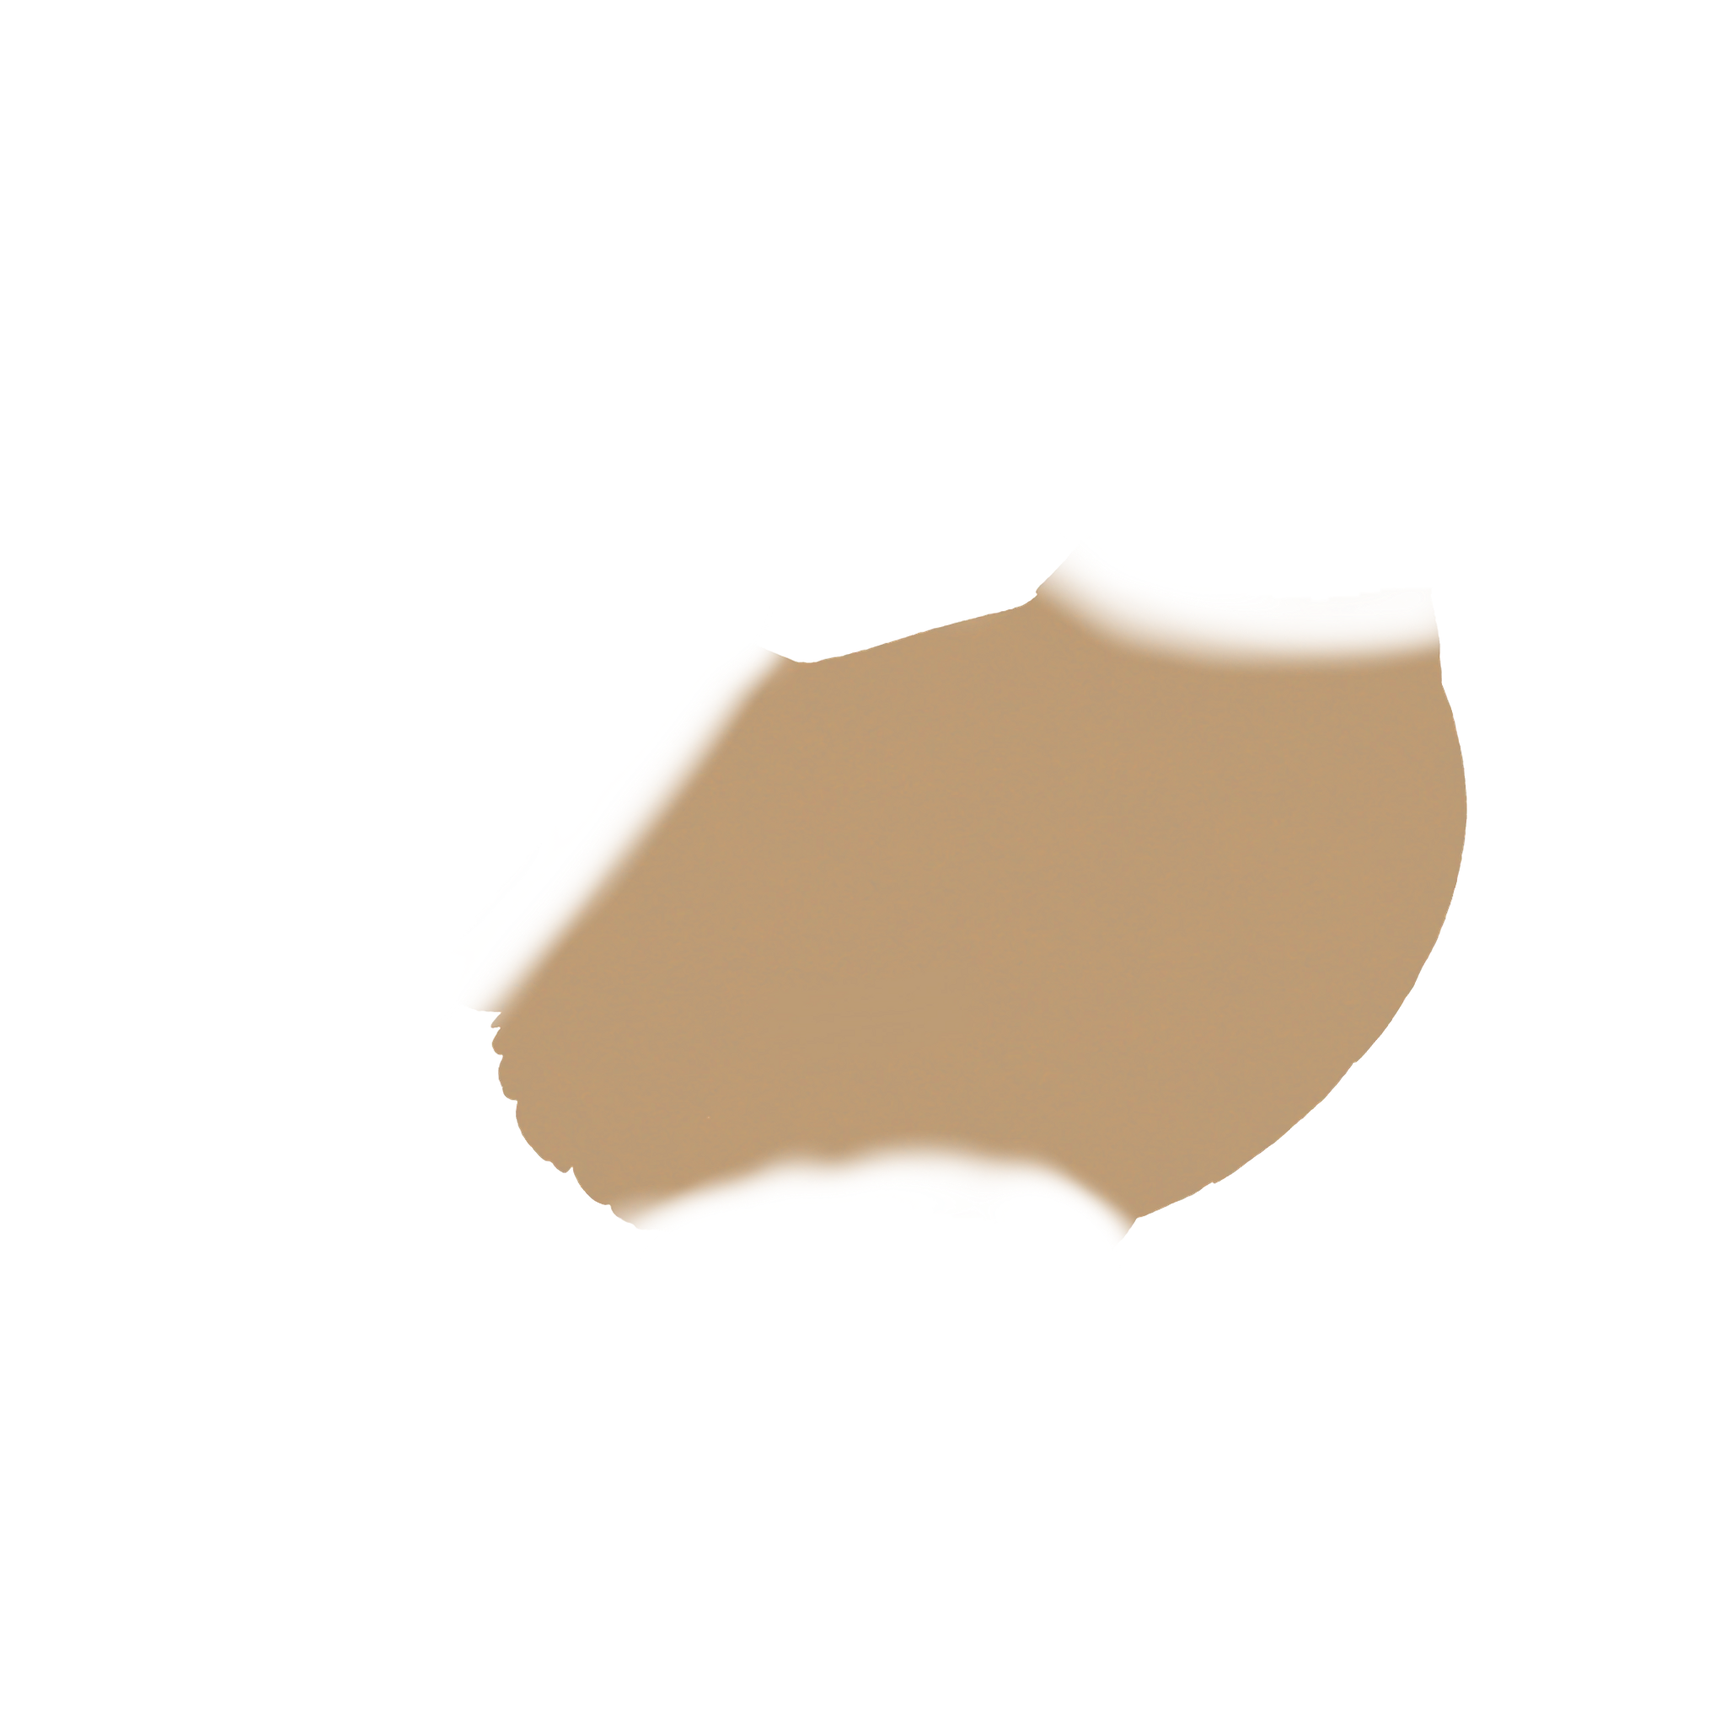
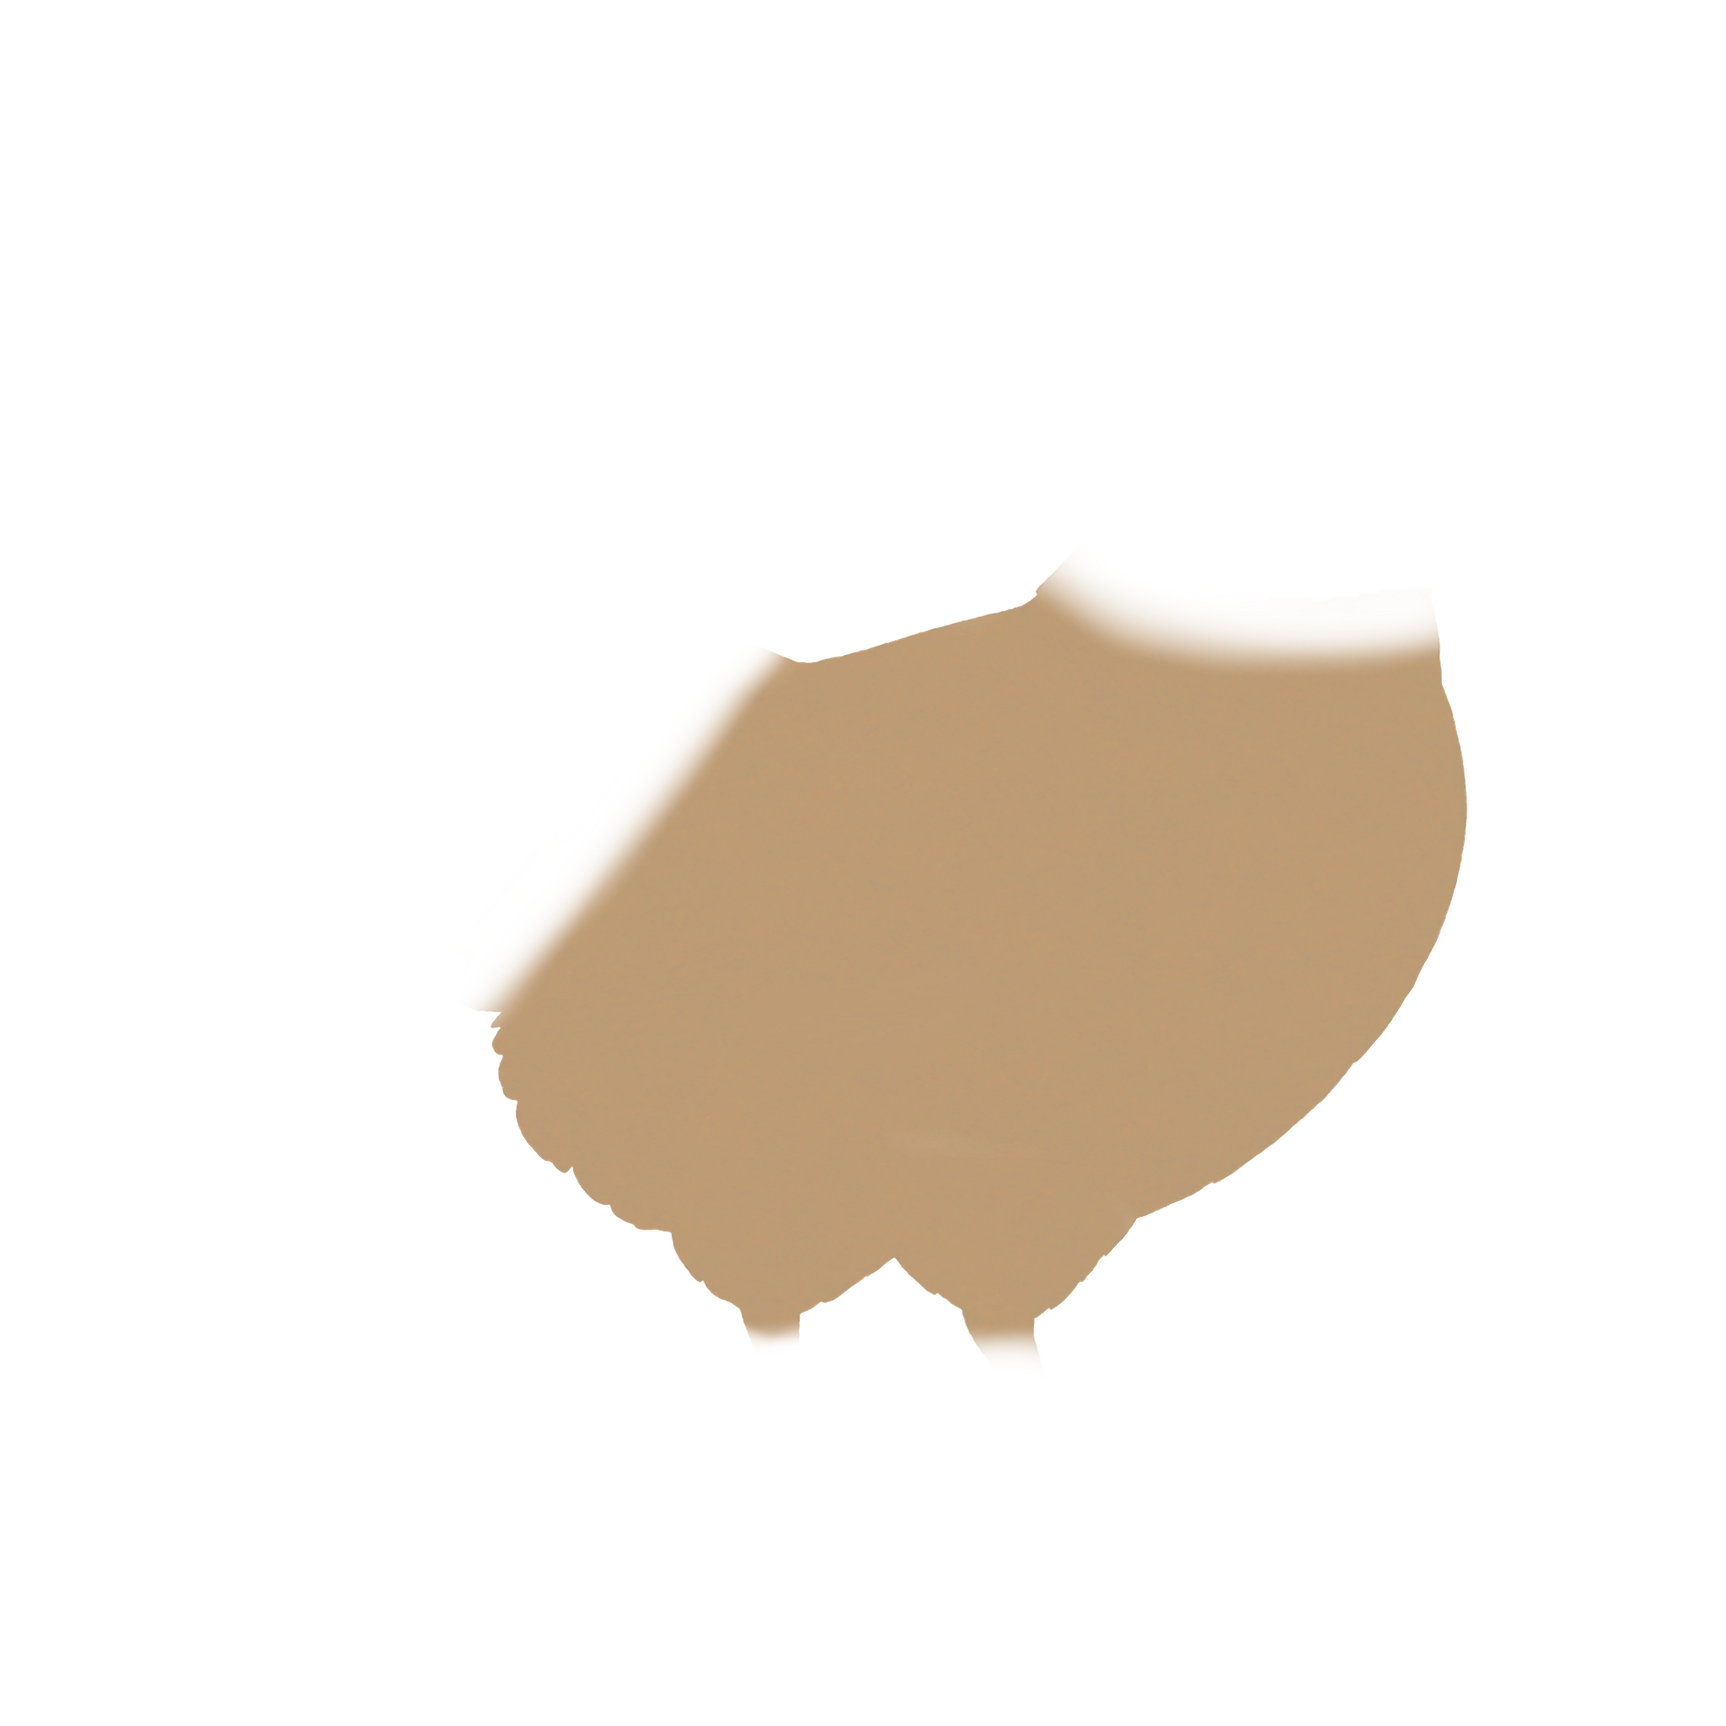
Chicken skeleton: feet drawn apart still pass when walking; hen thighs leave no gaps
Walking feet now step around the middle of the two drawn feet, footSpread
behind or in front of it (kit motion key; 0.04 bird heights by default).
The hen was drawn mid-stride with her feet 0.19 apart, so each foot
shuffled on its own side. The path rigs keep their own drawn spread, so
their walk is unchanged.

extract_kit_parts.py: `underfill` fills the body's holes where the
drumsticks were cut out, and fit.json can set the draw order. The hen's
back drumstick now draws in front of her filled body.

Claude-Session: https://claude.ai/code/session_016EsyZcmBYM3dDGRHH8dMYn

Changed region(s): [[0.3438, 0.6562, 0.6562, 0.7812]]

diff --git a/App/Featherwick/Scene/ChickenSkeleton.swift b/App/Featherwick/Scene/ChickenSkeleton.swift
@@ -62,6 +62,10 @@ struct SkeletonMotion: Equatable, Sendable {
     /// How far the hip drops at the bottom of a peck (rig heights). Bending legs crouch; stiff legs stay.
     var peckCrouch: Double
     var stepLength: Double
+    /// Where each foot steps while walking: this far behind (back leg) or in front of (front leg) the middle
+    /// of the two feet. Small, so the legs pass each other: a kit drawn mid-stride, feet wide apart, still
+    /// walks, not shuffles. Standing keeps the drawn feet.
+    var footSpread: Double
     var liftShare: Double
     var toeCurl: Double
     var bounce: Double
@@ -77,7 +81,8 @@ struct SkeletonMotion: Equatable, Sendable {
         return SkeletonMotion(
             peckBodyTilt: M.peckBodyTilt, peckNeckSwing: M.peckNeckSwing, peckHeadDip: M.peckHeadDip,
             peckCrouch: M.peckCrouch * k,
-            stepLength: M.stepLength * k, liftShare: M.liftShare, toeCurl: M.toeCurl, bounce: M.bounce * k,
+            stepLength: M.stepLength * k, footSpread: M.footSpread * k, liftShare: M.liftShare, toeCurl: M.toeCurl,
+            bounce: M.bounce * k,
             bodyBob: M.bodyBob, headBob: M.headBob, tailFlick: M.tailFlick)
     }
 }
@@ -128,7 +133,14 @@ struct SkeletonRig: Equatable, Sendable {
                 .thighFront: b.frontHip, .shankFront: b.frontHock, .toesFront: b.frontFoot,
             ],
             feet: [.back: b.backFoot, .front: b.frontFoot],
-            motion: .standard(hipHeight: Double(b.hip.y)))
+            motion: pathMotion(b))
+    }
+
+    /// The path rig walks on its own drawn feet: its foot spread is half the gap between them.
+    private static func pathMotion(_ b: ChickenBuild) -> SkeletonMotion {
+        var motion = SkeletonMotion.standard(hipHeight: Double(b.hip.y))
+        motion.footSpread = Double(abs(b.frontFoot.x - b.backFoot.x)) / 2
+        return motion
     }
 
     static let adult = path(ChickenRigMetrics.adult)
@@ -303,8 +315,11 @@ enum ChickenMotion {
 
     /// A leg at `u` (0..<1) of its own cycle: planted and sliding back, then lifted and swinging forward.
     private static func place(_ leg: Leg, at u: Double, rig: SkeletonRig, pose: inout ChickenPose) {
-        guard let foot = rig.feet[leg] else { return }
+        guard let drawn = rig.feet[leg] else { return }
         let m: SkeletonMotion = rig.motion
+        let feet: [CGPoint] = Leg.allCases.compactMap { rig.feet[$0] }
+        let middle: Double = feet.map { Double($0.x) }.reduce(0, +) / Double(feet.count)
+        let foot = CGPoint(x: middle + (leg == .back ? -m.footSpread : m.footSpread), y: Double(drawn.y))
         let half: Double = m.stepLength / 2
         let lift: Double = m.liftShare * Double(rig.hip.y)
         let target: CGPoint

diff --git a/App/FeatherwickTests/KitSpecTests.swift b/App/FeatherwickTests/KitSpecTests.swift
@@ -64,6 +64,35 @@ import Testing
         #expect(KitToken.implied(for: "body", in: kit) == .feathers)
     }
 
+    /// A kit drawn mid-stride, feet wide apart, still walks: its feet step around their middle, so they pass
+    /// each other. `footSpread` sets how far apart they step; standing keeps the drawn feet.
+    @Test func feetDrawnApartStillPassWhenWalking() throws {
+        let parts: String = """
+            {"thigh": {"bone": "thighBack", "pivot": [-0.06, 0.35]},
+             "shank": {"bone": "shankBack", "pivot": [-0.13, 0.19]},
+             "toes": {"bone": "toesBack", "pivot": [-0.10, 0.05]},
+             "body": {"bone": "body", "pivot": [-0.02, 0.36]},
+             "thigh2": {"bone": "thighFront", "pivot": [0.015, 0.35]},
+             "shank2": {"bone": "shankFront", "pivot": [0.04, 0.19]},
+             "toes2": {"bone": "toesFront", "pivot": [0.09, 0.05]}}
+            """
+        let order: [String] = ["thigh", "shank", "toes", "body", "thigh2", "shank2", "toes2"]
+        let rig: SkeletonRig = try spec(parts, order: order).skeleton
+        func gap(_ rig: SkeletonRig, _ phase: Double) -> Double {
+            let pose: ChickenPose = ChickenMotion.walk(rig, phase: phase)
+            let back: CGPoint = Skeleton.place(rig.feet[.back]!, on: .toesBack, rig: rig, pose: pose)
+            let front: CGPoint = Skeleton.place(rig.feet[.front]!, on: .toesFront, rig: rig, pose: pose)
+            return Double(front.x - back.x)
+        }
+        let gaps: [Double] = (0..<24).map { gap(rig, Double($0) / 24) }
+        #expect(gaps.min()! < 0 && gaps.max()! > 0)
+        let standing: CGPoint = Skeleton.place(rig.feet[.back]!, on: .toesBack, rig: rig, pose: .rest)
+        #expect(abs(standing.x - rig.feet[.back]!.x) < 1e-9 && abs(standing.y - rig.feet[.back]!.y) < 1e-9)
+        let wide: SkeletonRig = try spec(parts, order: order, motion: #"{"footSpread": 0.2}"#).skeleton
+        #expect(wide.motion.footSpread == 0.2)
+        #expect((0..<24).allSatisfy { gap(wide, Double($0) / 24) > 0 })
+    }
+
     /// An old kit (joints by `rotates`, parts by `ridesOn`) names no bones. It has no body joint, so it
     /// does not load, and the path rig draws the bird.
     @Test func anOldKitHasNoSkeleton() throws {

diff --git a/App/Featherwick/Scene/KitSpec.swift b/App/Featherwick/Scene/KitSpec.swift
@@ -52,6 +52,8 @@ struct KitSpec: Decodable, Sendable {
         var glanceHeadDip: Double?
         var legSwing: Double?
         var stride: Double?
+        /// While walking, how far each foot steps behind or in front of the middle of the two feet.
+        var footSpread: Double?
     }
 
     var build: String
@@ -171,6 +173,7 @@ struct KitSpec: Decodable, Sendable {
             if let v = m.peckNeckSwing { motion.peckNeckSwing = v }
             if let v = m.peckHeadDip { motion.peckHeadDip = v }
             if let v = m.peckCrouch { motion.peckCrouch = v }
+            if let v = m.footSpread { motion.footSpread = v }
             let legHeight: Double = Leg.allCases.compactMap { joints[$0.thigh].map { Double($0.y) } }.max() ?? 0
             if let swing = m.legSwing, legHeight > 0 {
                 motion.stepLength = 2 * legHeight * tan(swing * Double.pi / 180)

diff --git a/App/Featherwick/Scene/ChickenPose.swift b/App/Featherwick/Scene/ChickenPose.swift
@@ -140,6 +140,9 @@ enum ChickenRigMetrics {
     /// How far a planted foot slides back under the body in one stance, in rig heights, for a grown bird.
     /// Matched to the scene's walking speed (about 0.4 heights a second), so the feet do not skate.
     static let stepLength: Double = 0.16
+    /// While walking, a painted kit's feet step this far behind or in front of the middle of its two feet (rig
+    /// heights, for a grown bird), whatever their drawn gap. The path rig steps on its own drawn feet.
+    static let footSpread: Double = 0.04
     /// How high a foot lifts at the top of its swing, as a part of the hip's height: a high, deliberate step.
     static let liftShare: Double = 0.32
     /// Degrees the toes curl under while the foot is in the air.

diff --git a/App/FeatherwickTests/ChickenSkeletonTests.swift b/App/FeatherwickTests/ChickenSkeletonTests.swift
@@ -21,6 +21,13 @@ import Testing
         }
     }
 
+    /// The path rigs walk on their own drawn feet: a grown bird's and a chick's foot spread is half the gap
+    /// between their feet.
+    @Test func pathRigsStepOnTheirDrawnFeet() {
+        #expect(abs(adult.motion.footSpread - 0.04) < tolerance)
+        #expect(abs(SkeletonRig.chick.motion.footSpread - 0.05) < tolerance)
+    }
+
     /// A part on a missing bone moves with the nearest bone above it: a head with no neck rides the body.
     @Test func aMissingBoneHandsOnToItsParent() {
         var rig: SkeletonRig = adult

diff --git a/scripts/extract_kit_parts.py b/scripts/extract_kit_parts.py
@@ -178,6 +178,22 @@ def main(folder):
         leave = soft_polygon(split["leave"], placement, cover.shape)
         parts[name] = (colour, cover * take)
         parts[split["from"]] = (colour, cover * (1 - leave))
+
+    # A part cut out of another (a drumstick out of the body) leaves a hole there. `underfill` fills the
+    # hole with the cut part's shape, pulled in by `inset` export pixels, so a swinging part never shows the
+    # background behind it.
+    for name, fill in pieces.get("underfill", {}).items():
+        colour, cover = parts[name]
+        for other in fill["from"]:
+            o_colour, o_cover = parts[other]
+            core = Image.fromarray((o_cover * 255).astype("uint8"))
+            if fill["inset"] > 0:
+                core = core.filter(ImageFilter.MinFilter(2 * fill["inset"] + 1)).filter(ImageFilter.GaussianBlur(SOFT))
+            core = np.asarray(core) / 255
+            add = core * (1 - cover)
+            colour = (colour * cover[..., None] + o_colour * add[..., None]) / np.maximum(cover + add, 1e-6)[..., None]
+            cover = cover + add
+        parts[name] = (colour, cover)
     print("placement: scale %.4f, turn %.2f°, shift (%.1f, %.1f), edge error %.2f px"
           % (s, math.degrees(turn), tx, ty, err))
 

diff --git a/scripts/fit_kit_template.py b/scripts/fit_kit_template.py
@@ -119,6 +119,11 @@ def main(folder):
 
     t.PARTS = [(name, bone, rig(joints[SETTERS[name]]) if name in SETTERS else None, token, follow(name, f))
                for name, bone, _, token, f in t.PARTS]
+    if "drawOrder" in fit:
+        # This drawing's own order: the same parts, back to front.
+        by_name = {part[0]: part for part in t.PARTS}
+        assert sorted(fit["drawOrder"]) == sorted(by_name), "drawOrder must list every part once"
+        t.PARTS = [by_name[name] for name in fit["drawOrder"]]
     t.kit_json(os.path.join(folder, "kit.json"))
     print("wrote", os.path.relpath(folder))
 

diff --git a/docs/design/README.md b/docs/design/README.md
@@ -353,7 +353,7 @@ A grown bird whose body shape has a kit is drawn from painted parts (`Scene/Pain
 - **Joints:** each part names the skeleton `bone` it rides, by its name in `Bone`: `body`, `tail`, `neckLow`, `neckHigh`, `head`, `thighBack`, `shankBack`, `toesBack`, `thighFront`, `shankFront`, `toesFront`. A part with a `pivot` sets that bone's joint (in rig units: x right of the ground point, y up, in bird heights). Only one part can set each joint. Other parts on the same bone (the comb, the beak and the eye on `head`) need no pivot. A bone that no part sets is missing; parts on it ride the bone above. A leg's foot is its toes' joint. With no toes, the foot is straight below the hock, or below the hip for a one-piece leg. A part with a pivot must name a bone. A kit with no `body` joint does not load: every bird tilts at the hip. `drawOrder` is back to front. The kit's skeleton is `KitSpec.skeleton` (`Scene/KitSpec.swift`, pure, tested on Linux). No pivot is fixed in code.
 - **Loose parts:** `"follow": {"amount": 1, "root": [x, y]}` makes a part loose: it sways after its bone (see Fluff follow). `amount` is 0 to 2: 1 is the full spring, less is stiffer. `root` is where the part hangs from, in rig units; without it, the part sways about its bone's joint. Good for the tail, the wattle, the hackle cape and thigh fluff. A loose part must ride a bone.
 - **Names the code knows:** the parts `tail`, `neck` and `head` (for the feather token), `eye` (for the eyelid) and `comb` (for where the comb grows from). The landmarks `combBase`, `eyelidTop` and `eye`. The code uses the painted eye and comb before these landmarks.
-- **Motion:** `motion` gives this build's angles: `peckBodyTilt`, `peckNeckSwing`, `peckHeadDip` and `peckCrouch` (the hip's drop, in bird heights) at the bottom of a peck. `legSwing` sets the step: a stiff leg swings that far either side. A leg with a shank bends instead, by the same solver as the path rig. A missing angle takes the path rig's angle as it is. Only the crouch, the step and the bounce scale with this build's hip height. A kit whose neck rides on the body pecks with its head alone, at the head's pivot (`peckHeadDip`). A kit with a `neckLow` joint swings the neck by `peckNeckSwing` instead. A heavy bird needs this neck hinge to reach the ground: with a body hinge and a head hinge only, the beak stops about halfway down. Looking narrows the head group about the head's pivot. Sitting drops the body by `sitDrop` × the body pivot's height, and the legs fold, as on the path rig. `glanceHeadDip` and `stride` are read but not used yet: no motion dips the head to glance, and every build walks at the path rig's stride. The head bob needs `neckLow` and `head` bones; a kit without a neck bone does not bob.
+- **Motion:** `motion` gives this build's angles: `peckBodyTilt`, `peckNeckSwing`, `peckHeadDip` and `peckCrouch` (the hip's drop, in bird heights) at the bottom of a peck. `legSwing` sets the step: a stiff leg swings that far either side. While walking, each foot steps around the middle of the two drawn feet, `footSpread` behind or in front of it (missing: 0.04 bird heights, scaled by hip height). So a kit drawn mid-stride, feet wide apart, still walks with its legs passing each other. Standing keeps the drawn feet. The path rig steps on its own drawn feet. A leg with a shank bends instead, by the same solver as the path rig. A missing angle takes the path rig's angle as it is. Only the crouch, the step and the bounce scale with this build's hip height. A kit whose neck rides on the body pecks with its head alone, at the head's pivot (`peckHeadDip`). A kit with a `neckLow` joint swings the neck by `peckNeckSwing` instead. A heavy bird needs this neck hinge to reach the ground: with a body hinge and a head hinge only, the beak stops about halfway down. Looking narrows the head group about the head's pivot. Sitting drops the body by `sitDrop` × the body pivot's height, and the legs fold, as on the path rig. `glanceHeadDip` and `stride` are read but not used yet: no motion dips the head to glance, and every build walks at the path rig's stride. The head bob needs `neckLow` and `head` bones; a kit without a neck bone does not bob.
 - **Overlays:** `lacing.png` is a multiply map (RGB 255 changes nothing, darker makes the feathers darker). `barring.png` is a lighten map (RGB 255 is a full light bar, 0 changes nothing). Alpha says where each applies. An overlay is drawn only when the bird's look shows that pattern, only over the parts in its `on` list, and only inside those parts' coverage. Barring uses the bird's pattern colour. A barred chick's head spot stays on the path rig.
 - **Comb:** a kit paints an adult hen's comb. The look's comb size for an adult hen is 0.6 (`PartKit.paintedCombSize`), so the comb part scales by comb size ÷ 0.6: a grown hen shows the comb as painted, a pullet's comb is smaller, and a rooster's is larger. It scales about its own painted base (the bottom centre of its alpha). A kit with no comb art uses the `combBase` landmark.
 - **Eyelid:** a comb-coloured patch over the painted eye's own bounds (from the eye part's alpha). It grows down from its top edge to blink, as on the path rig. A kit with no eye part uses the `eyelidTop` landmark.

diff --git a/art-source/kit-fits/README.md b/art-source/kit-fits/README.md
@@ -40,6 +40,11 @@ each part on the kit canvas. A part's soft edges stay soft. Only the crisp edges
 outline) are used to find the place, so long soft cuts do not pull it. Small specks of other parts left on
 an export are dropped.
 
+A part cut out of another one leaves a hole in it (the hen's drumsticks came out of her body). `pieces` >
+`underfill` fills the hole with the cut part's shape (pulled in by `inset` export pixels), so a swinging
+part never shows the background behind it. `drawOrder` in `fit.json` sets this drawing's own order; the
+hen's back drumstick draws in front of her filled body.
+
 A part painted into another one (the hen's wattle is in her head) is split out by `pieces` > `splits` in
 `fit.json`: `take` is its shape and `leave` is what the other part loses, both in source pixels. The other
 part keeps a band under the join, so the split part can swing with no hole behind it.
